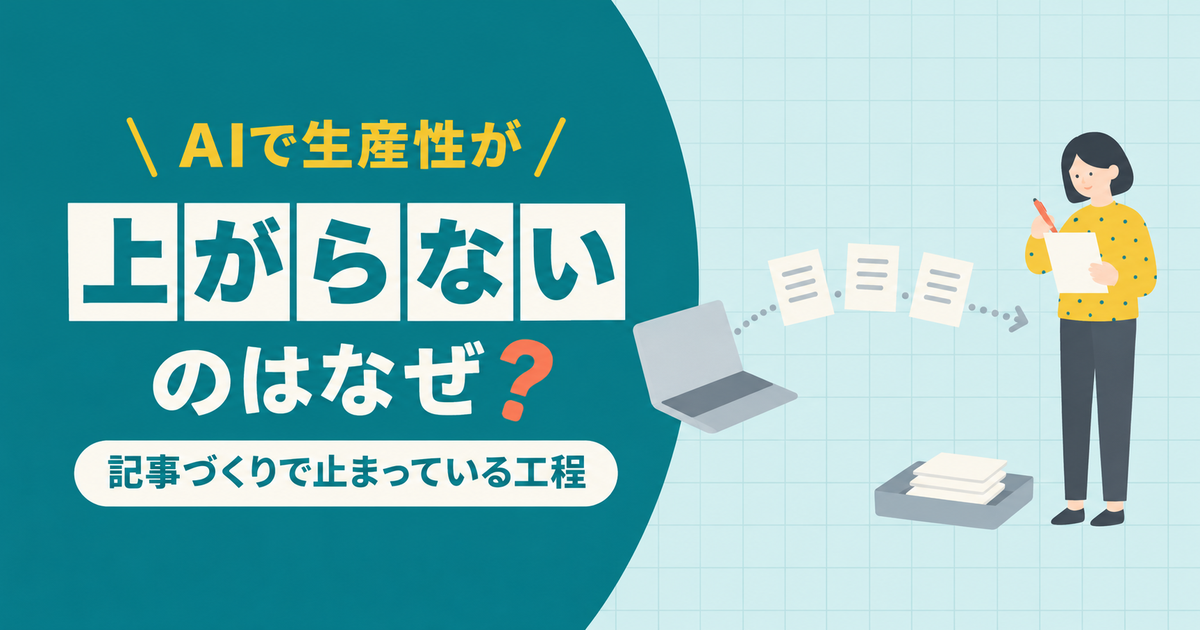
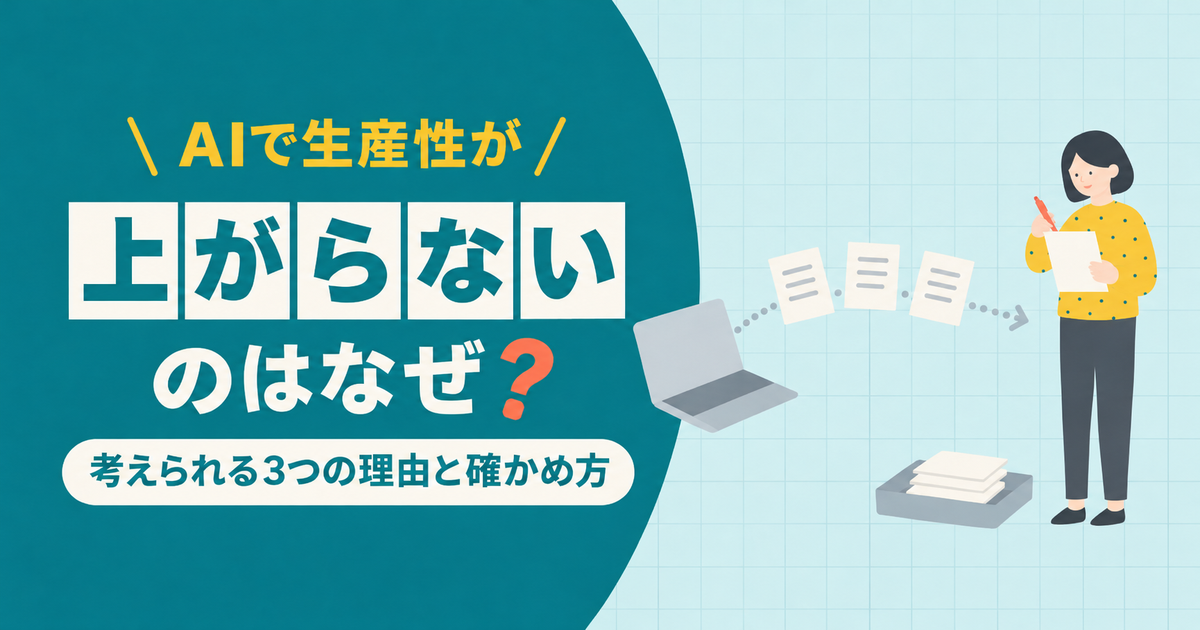
docs: no.91 アイキャッチを4段目差し替え版に更新

diff --git a/operations/structure-drafts/ai-productivity-bottleneck-eyecatch-prompt.md b/operations/structure-drafts/ai-productivity-bottleneck-eyecatch-prompt.md
@@ -64,3 +64,5 @@
 帯の幅は文字に合わせて少し伸ばしてかまいませんが、帯の文字の大きさ・書体（中くらいの太さのゴシック体）・色（青緑 #11777E）は今と同じにしてください。
 画像内の日本語テキストは、この4か所だけにしてください。
 ```
+
+- 結果（2026-11-20 11:01）：ChatGPTの1回目で採用。4段目「考えられる3つの理由と確かめ方」・ほかは元のまま。1730×909を1200×630に縮めて`images/eyecatch_0091.png`を上書き（ICCなし・PNG）
